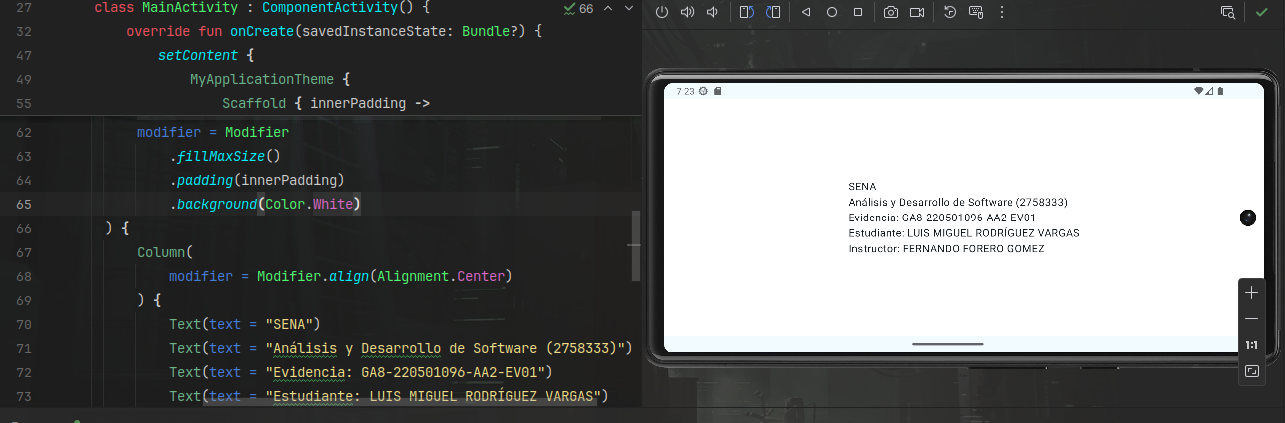
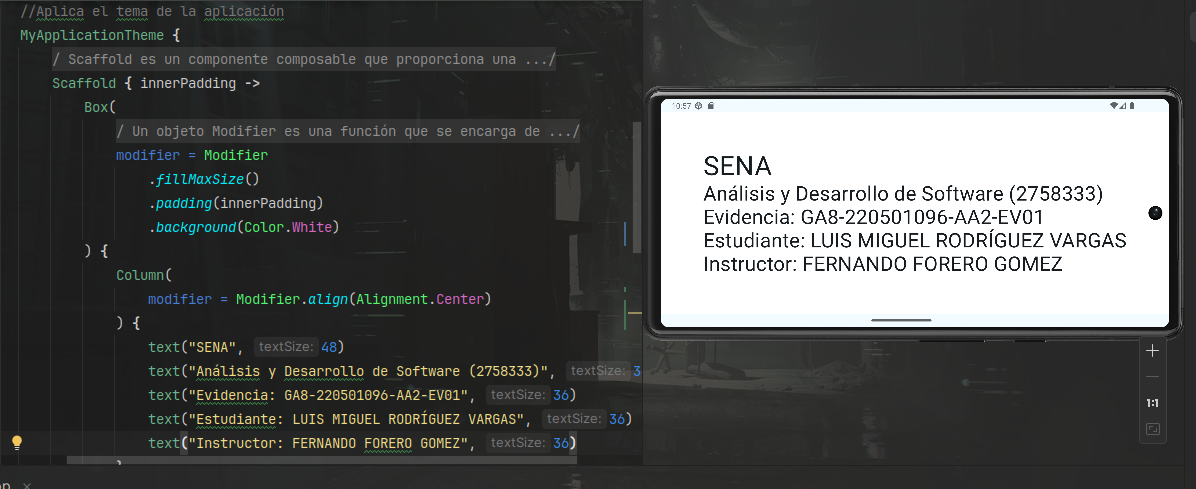
actualizacion readme

diff --git a/app/src/main/java/com/example/myapplication/MainActivity.kt b/app/src/main/java/com/example/myapplication/MainActivity.kt
@@ -1,6 +1,8 @@
 package com.example.myapplication
 
 import android.os.Bundle
+import android.text.SpannableStringBuilder
+import android.text.style.AbsoluteSizeSpan
 import androidx.activity.ComponentActivity
 import androidx.activity.compose.setContent
 import androidx.activity.enableEdgeToEdge
@@ -9,6 +11,7 @@ import androidx.compose.foundation.layout.Box
 import androidx.compose.foundation.layout.Column
 import androidx.compose.foundation.layout.fillMaxSize
 import androidx.compose.foundation.layout.padding
+import androidx.compose.material3.MaterialTheme
 import androidx.compose.material3.Scaffold
 import androidx.compose.material3.Text
 import androidx.compose.runtime.Composable
@@ -16,6 +19,8 @@ import androidx.compose.ui.Alignment
 import androidx.compose.ui.Modifier
 import androidx.compose.ui.graphics.Color
 import androidx.compose.ui.tooling.preview.Preview
+import androidx.compose.ui.unit.TextUnit
+import androidx.compose.ui.unit.sp
 import com.example.myapplication.ui.theme.MyApplicationTheme
 
 /*
@@ -67,18 +72,25 @@ class MainActivity : ComponentActivity() {
                         Column(
                             modifier = Modifier.align(Alignment.Center)
                         ) {
-                            Text(text = "SENA")
-                            Text(text = "Análisis y Desarrollo de Software (2758333)")
-                            Text(text = "Evidencia: GA8-220501096-AA2-EV01")
-                            Text(text = "Estudiante: LUIS MIGUEL RODRÍGUEZ VARGAS")
-                            Text(text = "Instructor: FERNANDO FORERO GOMEZ")
+                            text("SENA", 48)
+                            text("Análisis y Desarrollo de Software (2758333)", 36)
+                            text("Evidencia: GA8-220501096-AA2-EV01", 36)
+                            text("Estudiante: LUIS MIGUEL RODRÍGUEZ VARGAS", 36)
+                            text("Instructor: FERNANDO FORERO GOMEZ", 36)
                         }
                     }
                 }
             }
         }
     }
+
 }
+
+@Composable
+private fun text(text: String, textSize: Int) = Text(
+    text = text,
+    fontSize = textSize.sp
+)
 
 @Composable
 fun Greeting(name: String, modifier: Modifier = Modifier) {
